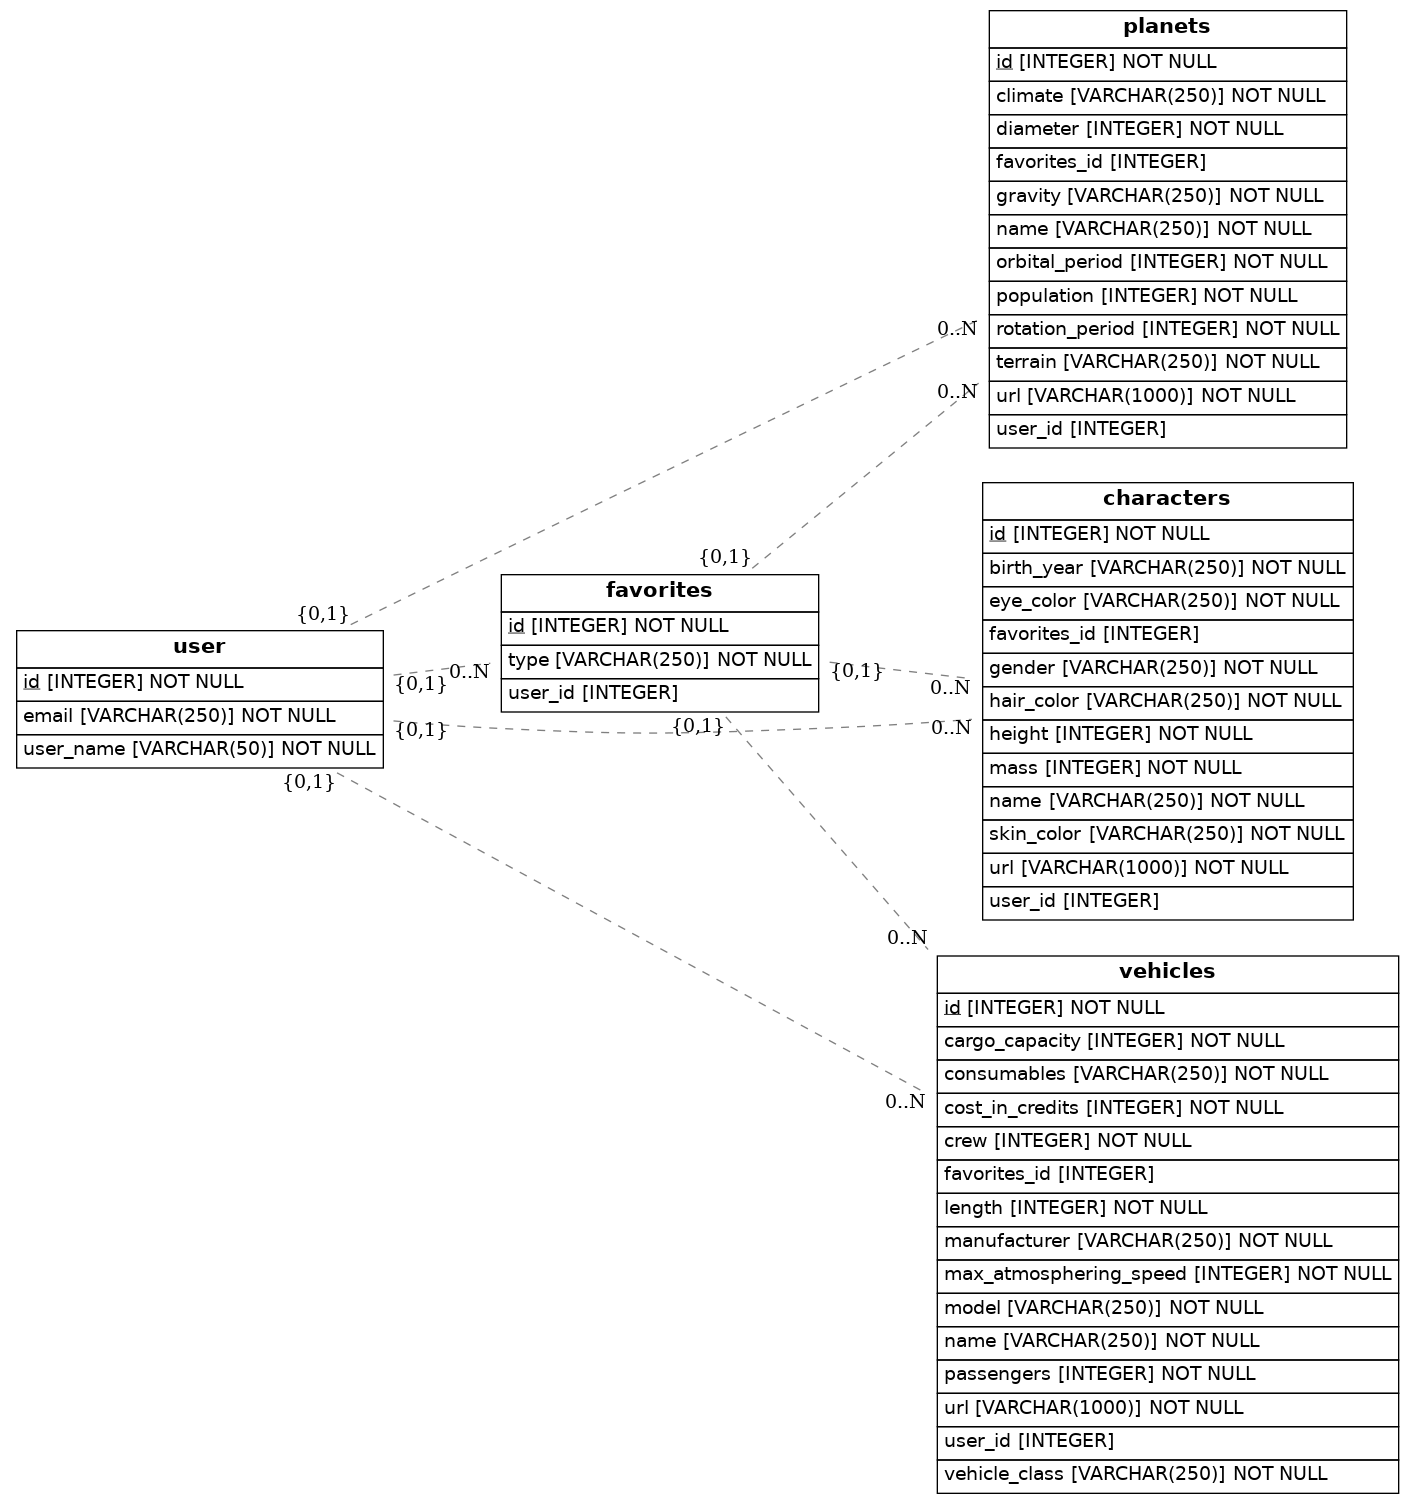
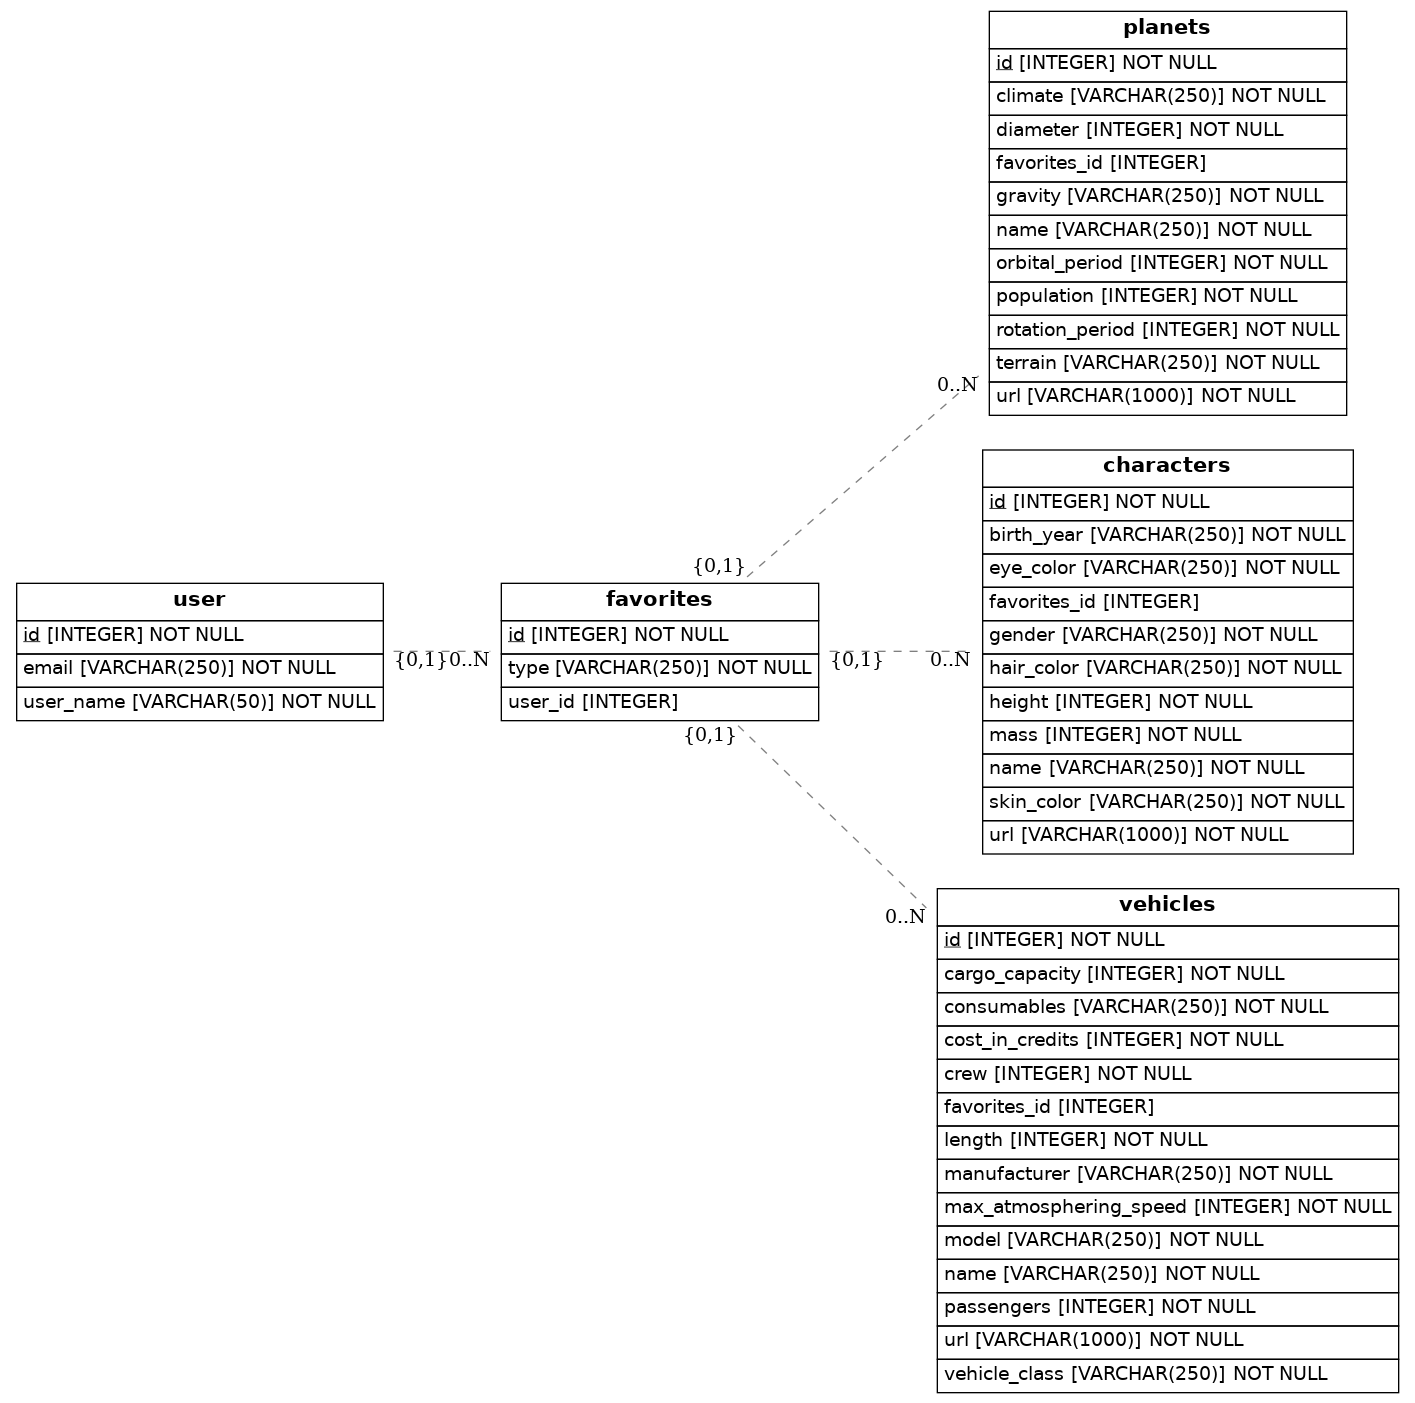
finished

diff --git a/src/models.py b/src/models.py
@@ -36,7 +36,6 @@ class Planets(Base):
     gravity = Column(String(250), nullable=False)
     climate = Column(String(250), nullable=False)
     favorites_id = Column(Integer, ForeignKey('favorites.id'))
-    user_id = Column(Integer, ForeignKey('user.id'))
     favorites = relationship(Favorites)
 
     def to_dict(self):
@@ -55,7 +54,6 @@ class Characters(Base):
     mass = Column(Integer, nullable=False)
     gender = Column(String(250), nullable=False)
     favorites_id = Column(Integer, ForeignKey('favorites.id'))
-    user_id = Column(Integer, ForeignKey('user.id'))
     favorites = relationship(Favorites)
 
     def to_dict(self):
@@ -77,7 +75,6 @@ class Vehicles(Base):
     cargo_capacity = Column(Integer, nullable=False)
     consumables = Column(String(250), nullable=False)
     favorites_id = Column(Integer, ForeignKey('favorites.id'))
-    user_id = Column(Integer, ForeignKey('user.id'))
     favorites = relationship(Favorites)
 
     def to_dict(self):
